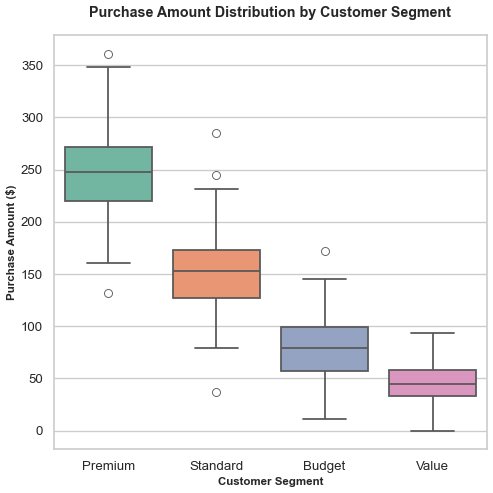
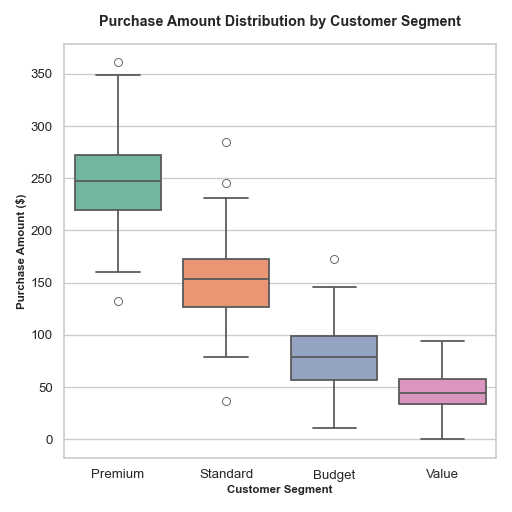
Fix chart dimensions to exactly 512x512 pixels

diff --git a/chart.py b/chart.py
@@ -65,7 +65,7 @@ plt.ylabel('Purchase Amount ($)', fontsize=13, fontweight='bold')
 # Improve layout
 plt.tight_layout()
 
-# Save chart as PNG with exactly 512x512 pixels
-plt.savefig('chart.png', dpi=64, bbox_inches='tight')
+# Save chart as PNG with exactly 512x512 pixels (8 inches * 64 dpi = 512 pixels)
+plt.savefig('chart.png', dpi=64)
 
 print("Chart successfully generated: chart.png (512x512 pixels)")
